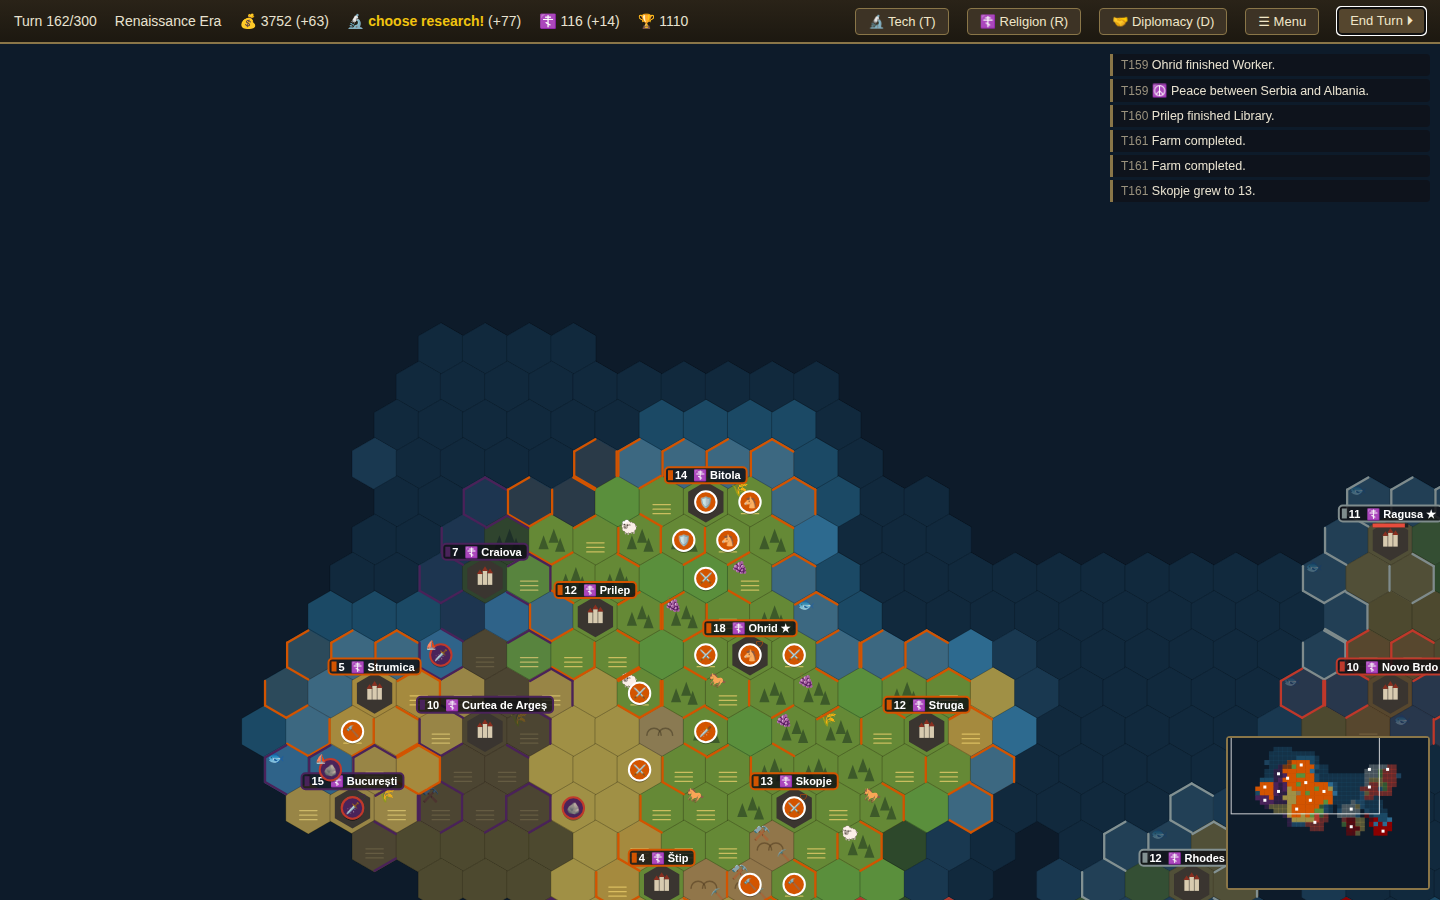
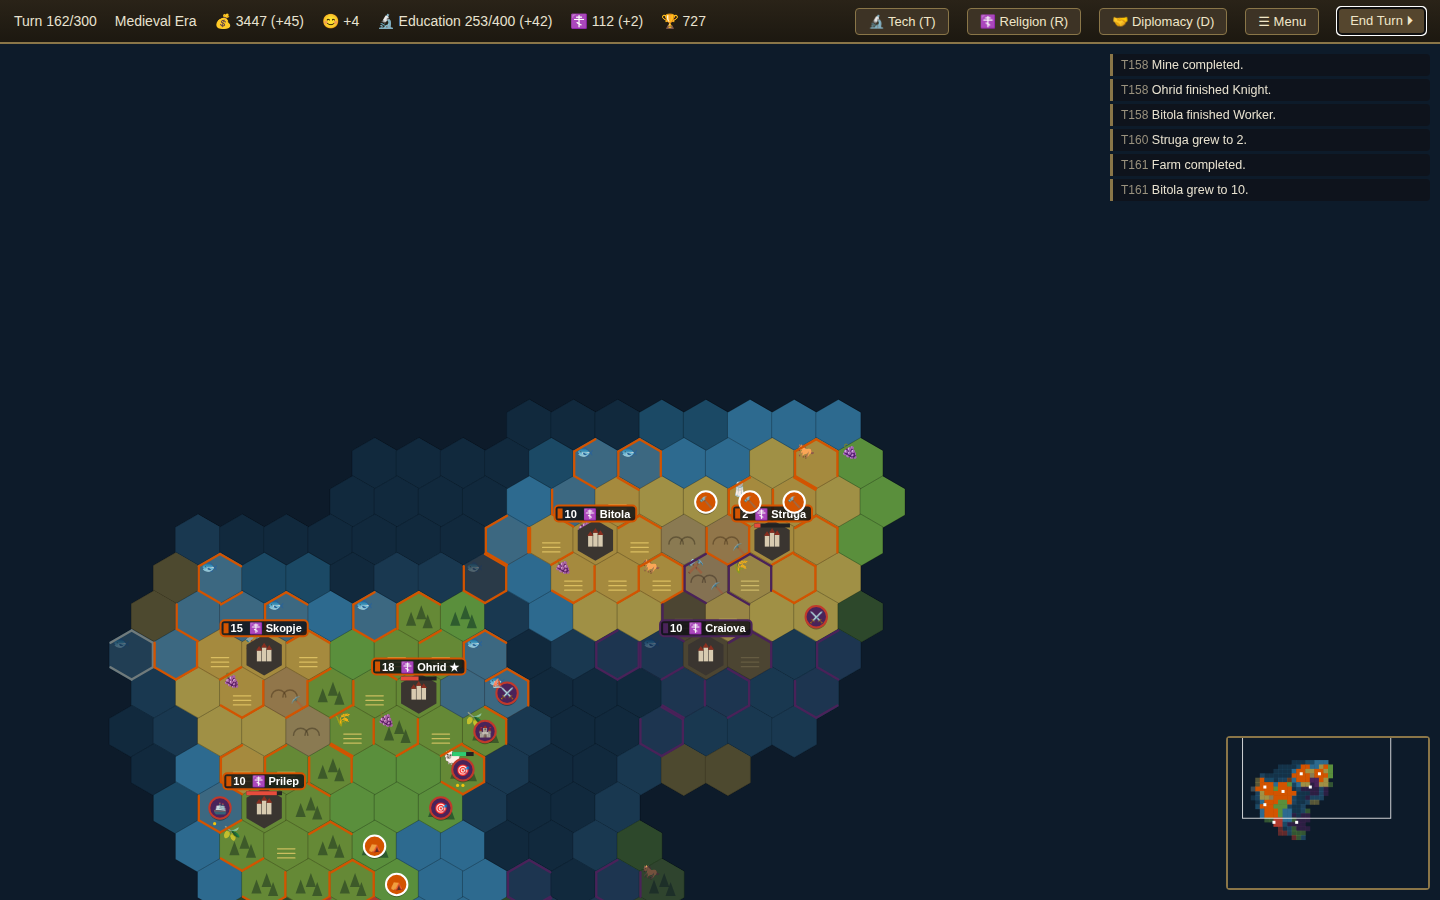
Add happiness and golden ages
- Empire happiness: +12 base, +4 per distinct luxury type controlled
  (wine, silver, and new olives and salt resources), +3 from the new
  Tavern (Currency) and Hammam (Theology) buildings; -2 per city and
  -0.4 per citizen
- Unhappy empires (<0) grow at half speed; in unrest (<-10) growth
  stops and all units fight at -15% strength
- Surplus happiness fills a Golden Age meter (400 + 250 per prior age);
  a Golden Age grants +20% gold and production for 10 turns
- Top bar shows mood with a breakdown tooltip, or the active Golden Age
- AI stops settling while unhappy and rushes happiness buildings
- City-states are exempt from happiness

Claude-Session: https://claude.ai/code/session_01WkGot38XueaVR6ycpk17BX

diff --git a/balkan-civ/js/model.js b/balkan-civ/js/model.js
@@ -96,6 +96,9 @@ class Player {
     this.faith = 0;
     this.religionId = null;      // id of the religion this player founded
     this.influence = {};         // minor player index -> influence points
+    this.gaMeter = 0;            // golden age progress
+    this.goldenAgeTurns = 0;     // turns of golden age remaining
+    this.gaCount = 0;            // golden ages enjoyed so far
   }
   get civ() { return CIVS[this.civId]; }
   get isMinor() { return !!this.civ.minor; }
@@ -441,6 +444,8 @@ class Game {
         mod += 0.15;
       }
     }
+    // a miserable empire fights poorly
+    if (!p.isMinor && this.happinessOf(p.index) < HAPPINESS.strikeAt) mod -= 0.15;
     return str * mod;
   }
 
@@ -566,6 +571,7 @@ class Game {
     if (!unit.def.naval) { unit.c = city.c; unit.r = city.r; } // ships stay offshore
     unit.moves = 0;
     this.updateVisibility(this.players[newOwner]);
+    this.dirtyHappiness();
     this.notify(`${CIVS[this.players[newOwner].civId].name} captured ${city.name}!`, -1);
     this.checkElimination(oldOwner);
     this.checkVictory();
@@ -621,6 +627,7 @@ class Game {
     }
     this.removeUnit(settler);
     this.updateVisibility(p);
+    this.dirtyHappiness();
     return city;
   }
 
@@ -746,6 +753,7 @@ class Game {
       this.addUnit(item.key, city.owner, spot[0], spot[1]);
     } else {
       city.buildings.push(item.key);
+      this.dirtyHappiness();
       if (BUILDINGS[item.key].cityHp) city.hp += BUILDINGS[item.key].cityHp;
       if (BUILDINGS[item.key].wonder) {
         this.notify(`${BUILDINGS[item.key].name} has been completed in ${city.name}!`, -1);
@@ -901,6 +909,40 @@ class Game {
     return this.cities.filter(c => c.religion === rid).length;
   }
 
+  // ---------- happiness & golden ages ----------
+  happinessOf(idx) {
+    const p = this.players[idx];
+    if (p.isMinor || !p.alive) return 0;
+    if (!this._hap) this._hap = {};
+    if (this._hap[idx] !== undefined) return this._hap[idx];
+    let hap = HAPPINESS.base;
+    const lux = new Set();
+    for (const t of this.map.tiles) {
+      if (t.owner === idx && t.resource && RESOURCE[t.resource].luxury) lux.add(t.resource);
+    }
+    hap += lux.size * HAPPINESS.perLuxury;
+    let nCities = 0, pop = 0;
+    for (const c of this.cities) {
+      if (c.owner !== idx) continue;
+      nCities++; pop += c.pop;
+      for (const b of c.buildings) hap += BUILDINGS[b].happy || 0;
+    }
+    hap -= nCities * HAPPINESS.perCity + Math.floor(pop * HAPPINESS.perPop);
+    hap = Math.floor(hap);
+    this._hap[idx] = hap;
+    return hap;
+  }
+
+  luxuryTypesOf(idx) {
+    const lux = new Set();
+    for (const t of this.map.tiles) {
+      if (t.owner === idx && t.resource && RESOURCE[t.resource].luxury) lux.add(t.resource);
+    }
+    return [...lux];
+  }
+
+  dirtyHappiness() { this._hap = {}; }
+
   // ---------- city-states ----------
   minorStatus(majorIdx, minorIdx) {
     if (this.players[majorIdx].atWarWith.has(minorIdx)) return "war";
@@ -1003,8 +1045,14 @@ class Game {
     const p = this.players[city.owner];
     const y = this.cityYields(city);
 
-    // growth
-    city.food += y.food - city.pop * 2;
+    // growth (unhappy empires grow slowly; miserable ones not at all)
+    let surplus = y.food - city.pop * 2;
+    if (!p.isMinor && surplus > 0) {
+      const hap = this.happinessOf(p.index);
+      if (hap < HAPPINESS.strikeAt) surplus = 0;
+      else if (hap < 0) surplus = Math.floor(surplus / 2);
+    }
+    city.food += surplus;
     if (city.food >= city.foodNeeded()) { city.food -= city.foodNeeded(); city.pop++; if (city.owner === 0) this.notify(`${city.name} grew to ${city.pop}.`); }
     else if (city.food < 0) { city.food = 0; if (city.pop > 1) { city.pop--; if (city.owner === 0) this.notify(`${city.name} is starving!`); } }
 
@@ -1013,6 +1061,7 @@ class Game {
       let prod = y.prod;
       const item = city.producing;
       if (item.kind === "building" && p.civ.buildingProdBonus) prod = Math.floor(prod * (1 + p.civ.buildingProdBonus));
+      if (p.goldenAgeTurns > 0) prod = Math.floor(prod * (1 + GOLDEN_AGE.bonus));
       city.prodStored += prod;
       const cost = item.kind === "unit" ? UNITS[item.key].cost : BUILDINGS[item.key].cost;
       if (city.prodStored >= cost) {
@@ -1065,15 +1114,41 @@ class Game {
 
   processPlayerEconomy(p) {
     if (!p.alive) return;
+    this.dirtyHappiness(); // borders/pop may have changed since last compute
     let gold = 0, sci = 0, faith = 0;
     for (const city of this.cities) {
       if (city.owner !== p.index) continue;
       const y = this.processCityTurn(city);
       gold += y.gold; sci += y.sci; faith += y.faith;
     }
+    if (p.goldenAgeTurns > 0 && gold > 0) gold = Math.floor(gold * (1 + GOLDEN_AGE.bonus));
     // unit maintenance: first 4 free
     const nUnits = this.units.filter(u => u.owner === p.index).length;
     gold -= Math.max(0, nUnits - 4);
+    if (!p.isMinor) {
+      // golden age bookkeeping: surplus happiness fills the meter
+      const hap = this.happinessOf(p.index);
+      if (p.goldenAgeTurns > 0) {
+        p.goldenAgeTurns--;
+        if (p.goldenAgeTurns === 0 && p.index === 0) this.notify("The Golden Age has ended.");
+      } else {
+        p.gaMeter += Math.max(0, hap);
+        if (p.gaMeter >= GOLDEN_AGE.threshold(p.gaCount)) {
+          p.gaMeter = 0;
+          p.gaCount++;
+          p.goldenAgeTurns = GOLDEN_AGE.duration;
+          this.notify(`✨ ${p.civ.name} enters a GOLDEN AGE! (+20% gold and production for ${GOLDEN_AGE.duration} turns)`,
+            p.index === 0 ? 0 : -1);
+        }
+      }
+      if (p.index === 0 && hap < 0 && (p._lastHap ?? 0) >= 0) {
+        this.notify(`😞 Your empire is unhappy (${hap}) — growth is slowed. Build Taverns and secure luxuries!`);
+      }
+      if (p.index === 0 && hap < HAPPINESS.strikeAt && (p._lastHap ?? 0) >= HAPPINESS.strikeAt) {
+        this.notify(`🔥 Unrest! Happiness ${hap}: growth has stopped and your units fight at -15% strength.`);
+      }
+      p._lastHap = hap;
+    }
     if (!p.isMinor) {
       gold += this.minorBonuses(p.index).gold;
       // Tithe: gold from every follower city in the world
@@ -1210,7 +1285,8 @@ class Game {
         techs: [...p.techs], atWarWith: [...p.atWarWith], met: [...p.met],
         warWeariness: p.warWeariness, cityNameCursor: p.cityNameCursor,
         visible: Array.from(p.visible), originalCapitalId: p.originalCapitalId,
-        faith: p.faith, religionId: p.religionId, influence: p.influence })),
+        faith: p.faith, religionId: p.religionId, influence: p.influence,
+        gaMeter: p.gaMeter, goldenAgeTurns: p.goldenAgeTurns, gaCount: p.gaCount })),
       cities: this.cities.map(c => ({ ...c })),
       units: this.units.map(u => ({ id: u.id, type: u.type, owner: u.owner, c: u.c, r: u.r,
         hp: u.hp, moves: u.moves, fortified: u.fortified, attacked: u.attacked, path: u.path,
@@ -1251,6 +1327,8 @@ class Game {
       p.visible = Uint8Array.from(pd.visible); p.originalCapitalId = pd.originalCapitalId;
       p.faith = pd.faith || 0; p.religionId = pd.religionId ?? null;
       p.influence = pd.influence || {};
+      p.gaMeter = pd.gaMeter || 0; p.goldenAgeTurns = pd.goldenAgeTurns || 0;
+      p.gaCount = pd.gaCount || 0;
       return p;
     });
     return g;

diff --git a/balkan-civ/js/data.js b/balkan-civ/js/data.js
@@ -22,9 +22,25 @@ const RESOURCE = {
   SHEEP:  { name: "Sheep",  icon: "🐑", food: 1, prod: 1, gold: 0, terrains: ["HILLS", "GRASSLAND"] },
   HORSES: { name: "Horses", icon: "🐎", food: 0, prod: 1, gold: 1, terrains: ["GRASSLAND", "PLAINS"] },
   IRON:   { name: "Iron",   icon: "⚒️", food: 0, prod: 2, gold: 0, terrains: ["HILLS", "PLAINS"] },
-  WINE:   { name: "Wine",   icon: "🍇", food: 1, prod: 0, gold: 2, terrains: ["GRASSLAND", "PLAINS", "HILLS"] },
-  SILVER: { name: "Silver", icon: "🪙", food: 0, prod: 1, gold: 2, terrains: ["HILLS"] },
+  WINE:   { name: "Wine",   icon: "🍇", food: 1, prod: 0, gold: 2, terrains: ["GRASSLAND", "PLAINS", "HILLS"], luxury: true },
+  SILVER: { name: "Silver", icon: "🪙", food: 0, prod: 1, gold: 2, terrains: ["HILLS"], luxury: true },
+  OLIVES: { name: "Olives", icon: "🫒", food: 1, prod: 0, gold: 2, terrains: ["GRASSLAND", "PLAINS"], luxury: true },
+  SALT:   { name: "Salt",   icon: "🧂", food: 0, prod: 1, gold: 2, terrains: ["PLAINS", "HILLS"], luxury: true },
   FISH:   { name: "Fish",   icon: "🐟", food: 2, prod: 0, gold: 1, terrains: ["COAST"] },
+};
+
+// Empire happiness tuning
+const HAPPINESS = {
+  base: 12,            // baseline contentment
+  perLuxury: 4,        // each distinct luxury type you control
+  perCity: 2,          // unhappiness per city
+  perPop: 0.4,         // unhappiness per citizen
+  strikeAt: -10,       // below this: -15% combat strength, growth stops
+};
+const GOLDEN_AGE = {
+  threshold: (n) => 400 + 250 * n,  // meter cost of the (n+1)th golden age
+  duration: 10,
+  bonus: 0.2,          // +20% gold and production
 };
 
 // ------------------------------------------------------------
@@ -127,6 +143,8 @@ const BUILDINGS = {
   LIBRARY:   { name: "Library",    icon: "📜", cost: 80,  sci: 3, tech: "WRITING" },
   WALLS:     { name: "Walls",      icon: "🧱", cost: 80,  cityHp: 50, cityStr: 4, tech: "MASONRY" },
   MARKET:    { name: "Market",     icon: "💰", cost: 100, gold: 3, tech: "CURRENCY" },
+  TAVERN:    { name: "Tavern",     icon: "🍺", cost: 100, happy: 3, tech: "CURRENCY" },
+  HAMMAM:    { name: "Hammam",     icon: "🛁", cost: 140, happy: 3, tech: "THEOLOGY" },
   TEMPLE:    { name: "Temple",     icon: "⛪", cost: 90,  culture: 3, faith: 2, tech: "PHILOSOPHY" },
   AQUEDUCT:  { name: "Aqueduct",   icon: "⛲", cost: 110, food: 3, tech: "CONSTRUCTION" },
   FORGE:     { name: "Forge",      icon: "🔥", cost: 120, prod: 3, tech: "IRON_WORKING" },

diff --git a/balkan-civ/js/ui.js b/balkan-civ/js/ui.js
@@ -464,6 +464,20 @@ const UI = (() => {
     $("stat-sci").innerHTML = tech
       ? `🔬 ${tech.name} ${Math.floor(p.scienceStored)}/${tech.cost} (+${sci})`
       : `🔬 <b class="alert">choose research!</b> (+${sci})`;
+    // happiness + golden age
+    const hap = game.happinessOf(0);
+    const lux = game.luxuryTypesOf(0);
+    const nCities = game.cities.filter(c => c.owner === 0).length;
+    const popTotal = game.cities.filter(c => c.owner === 0).reduce((a, c) => a + c.pop, 0);
+    const happyEl = $("stat-happy");
+    if (p.goldenAgeTurns > 0) {
+      happyEl.innerHTML = `✨ <b style="color:#f1c40f">GOLDEN AGE</b> (${p.goldenAgeTurns})`;
+      happyEl.title = "+20% gold and production";
+    } else {
+      happyEl.innerHTML = hap >= 0 ? `😊 +${hap}` : `<b class="${hap < HAPPINESS.strikeAt ? "war" : "alert"}">😞 ${hap}</b>`;
+      happyEl.title = `Happiness: ${HAPPINESS.base} base + ${lux.length * HAPPINESS.perLuxury} luxuries (${lux.map(l => RESOURCE[l].icon).join("") || "none"}) + buildings − ${nCities * HAPPINESS.perCity} cities − ${Math.floor(popTotal * HAPPINESS.perPop)} population` +
+        `\nGolden Age: ${Math.floor(p.gaMeter)}/${GOLDEN_AGE.threshold(p.gaCount)} (surplus happiness fills the meter)`;
+    }
     const relIcon = p.religionId !== null ? game.religions[p.religionId].icon : "☦️";
     $("stat-faith").innerHTML = game.canFoundReligion(0)
       ? `${relIcon} <b class="alert">found a religion!</b>`
@@ -666,7 +680,7 @@ const UI = (() => {
     if (!t || !game.players[0].visible[game.map.idx(c, r)]) { tip.style.display = "none"; return; }
     const y = game.tileYield(t);
     let html = `<b>${TERRAIN[t.terrain].name}</b>${t.feature ? " / " + FEATURE[t.feature].name : ""}`;
-    if (t.resource) html += ` · ${RESOURCE[t.resource].icon} ${RESOURCE[t.resource].name}`;
+    if (t.resource) html += ` · ${RESOURCE[t.resource].icon} ${RESOURCE[t.resource].name}${RESOURCE[t.resource].luxury ? " (luxury)" : ""}`;
     if (t.improvement) html += ` · ${IMPROVEMENT[t.improvement].icon} ${IMPROVEMENT[t.improvement].name}`;
     html += `<br><span class="dim">🍞${y.food} ⚙️${y.prod} 💰${y.gold}</span>`;
     if (t.owner !== -1) html += `<br><span style="color:${CIVS[game.players[t.owner].civId].color}">${CIVS[game.players[t.owner].civId].name} territory</span>`;

diff --git a/balkan-civ/js/ai.js b/balkan-civ/js/ai.js
@@ -158,8 +158,13 @@ const AI = (() => {
       let choice = null;
       const garrison = game.combatUnitAt(city.c, city.r);
       if (!garrison && military.length < myCities.length) choice = bestMilitary();
-      if (!choice && !atWar && myCities.length + settlers.length < wantCities && city.pop >= 3 &&
-          !settlers.length && game.rng() < 0.7) {
+      const happiness = game.happinessOf(p.index);
+      if (!choice && happiness < 0) {
+        // unhappy: happiness buildings before anything else
+        choice = opts.find(o => o.kind === "building" && (o.key === "TAVERN" || o.key === "HAMMAM")) || null;
+      }
+      if (!choice && !atWar && happiness >= 2 && myCities.length + settlers.length < wantCities &&
+          city.pop >= 3 && !settlers.length && game.rng() < 0.7) {
         choice = pick(o => o.key === "SETTLER");
       }
       const workers = myUnits.filter(u => u.type === "WORKER");
@@ -176,8 +181,8 @@ const AI = (() => {
       }
       if (!choice) {
         // building priority order
-        const prio = ["MONUMENT", "SHRINE", "GRANARY", "LIBRARY", "WALLS", "MARKET", "BARRACKS", "TEMPLE",
-          "AQUEDUCT", "FORGE", "UNIVERSITY", "CASTLE", "WORKSHOP", "BANK",
+        const prio = ["MONUMENT", "SHRINE", "GRANARY", "LIBRARY", "TAVERN", "WALLS", "MARKET", "BARRACKS",
+          "TEMPLE", "HAMMAM", "AQUEDUCT", "FORGE", "UNIVERSITY", "CASTLE", "WORKSHOP", "BANK",
           "HAGIA_SOPHIA", "STUDENICA", "RILA", "KALEMEGDAN"];
         for (const key of prio) {
           const o = opts.find(x => x.kind === "building" && x.key === key);

diff --git a/balkan-civ/index.html b/balkan-civ/index.html
@@ -53,6 +53,7 @@
     <span id="stat-turn"></span>
     <span id="stat-era"></span>
     <span id="stat-gold"></span>
+    <span id="stat-happy"></span>
     <span id="stat-sci" style="cursor:pointer" title="Open tech tree"></span>
     <span id="stat-faith" style="cursor:pointer" title="Open religion overview"></span>
     <span id="stat-score"></span>

diff --git a/balkan-civ/README.md b/balkan-civ/README.md
@@ -57,9 +57,15 @@ Game* on the title screen to pick up where you left off.
   Win them over with gold gifts — friends and allies pay gold, food or
   culture, and militaristic allies gift you units — or conquer them, if
   you can breach their walls
+- **Happiness & Golden Ages**: your empire's mood (top bar) rises with
+  luxuries (wine, silver, olives, salt) and Taverns/Hammams, and falls as
+  cities and population grow. Unhappy empires grow at half speed; below −10
+  growth stops and units fight at −15%. Surplus happiness fills a meter
+  that triggers **Golden Ages**: 10 turns of +20% gold and production
 - Workers and tile improvements: farms, mines, and roads (roads cut movement
   cost to 1 on any terrain)
-- Strategic resources (horses, iron) gating unit types
+- Strategic resources (horses, iron) gating unit types; luxury resources
+  feeding happiness
 - 3–8 AI opponents that scout, settle (across the sea, too), improve their
   land, build navies, research, declare war, sue for peace, and march
   armies on your cities
@@ -101,4 +107,4 @@ js/ui.js          panels, modals, input handling
 
 ## Ideas for future expansion
 
-Happiness, espionage, more wonders, sound.
+Espionage, more wonders, sound.